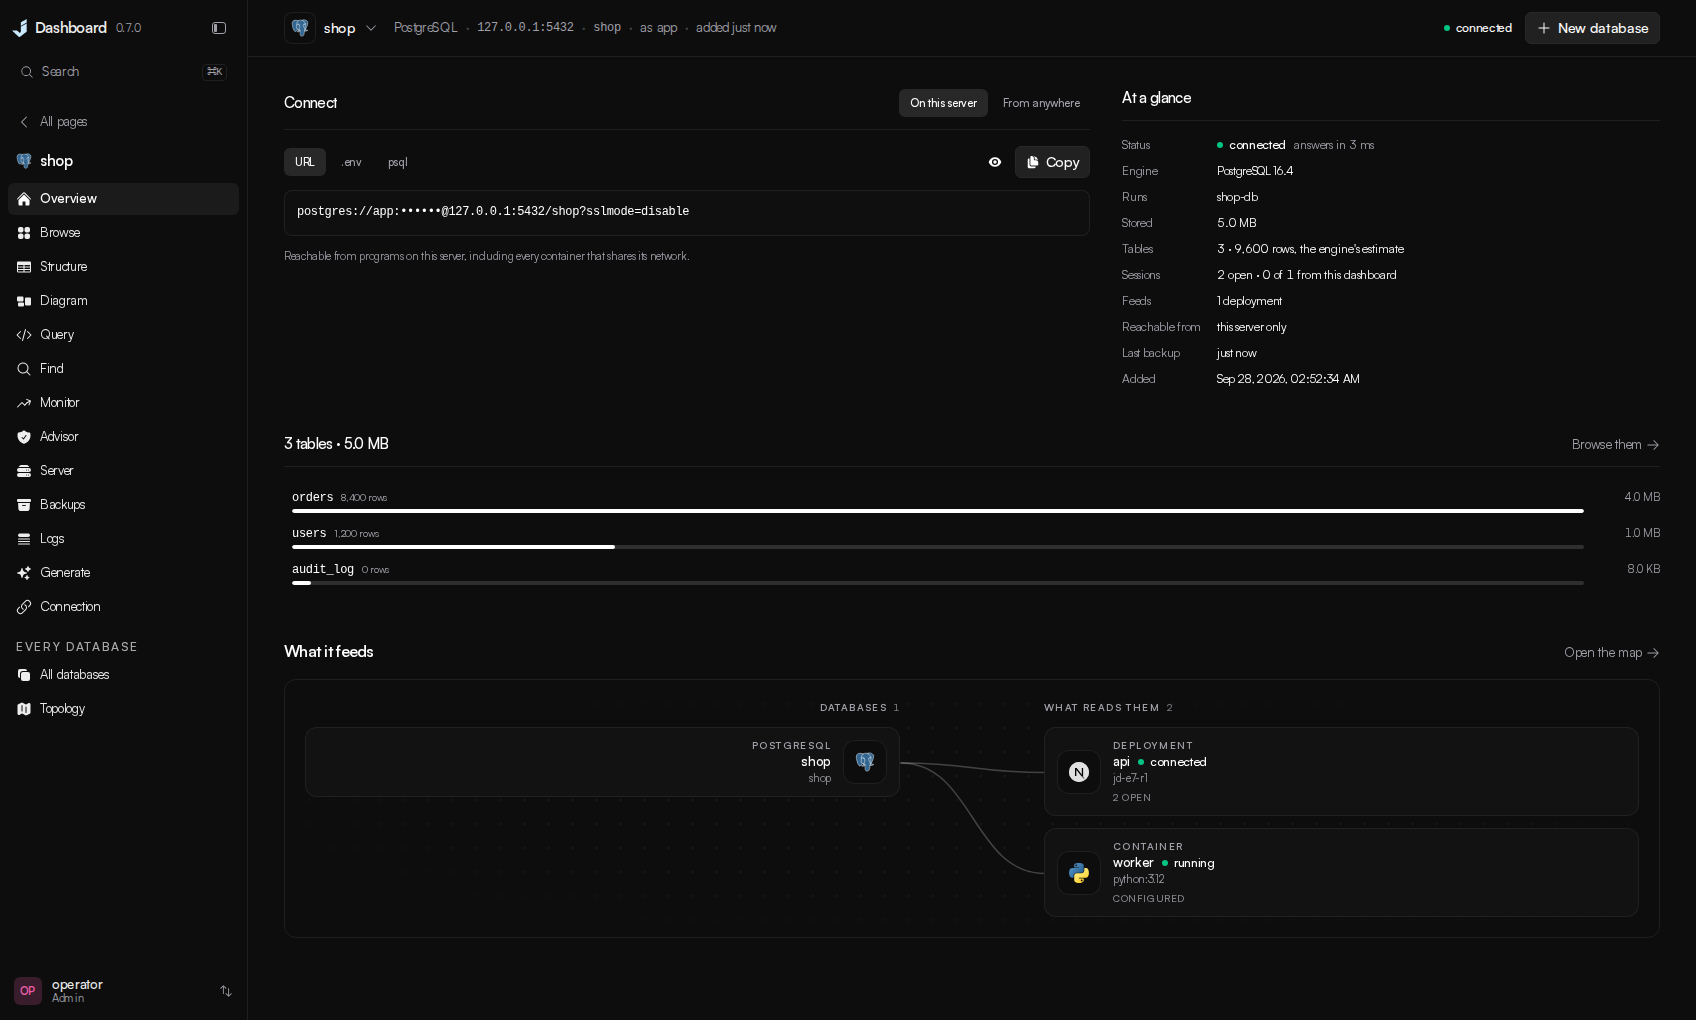
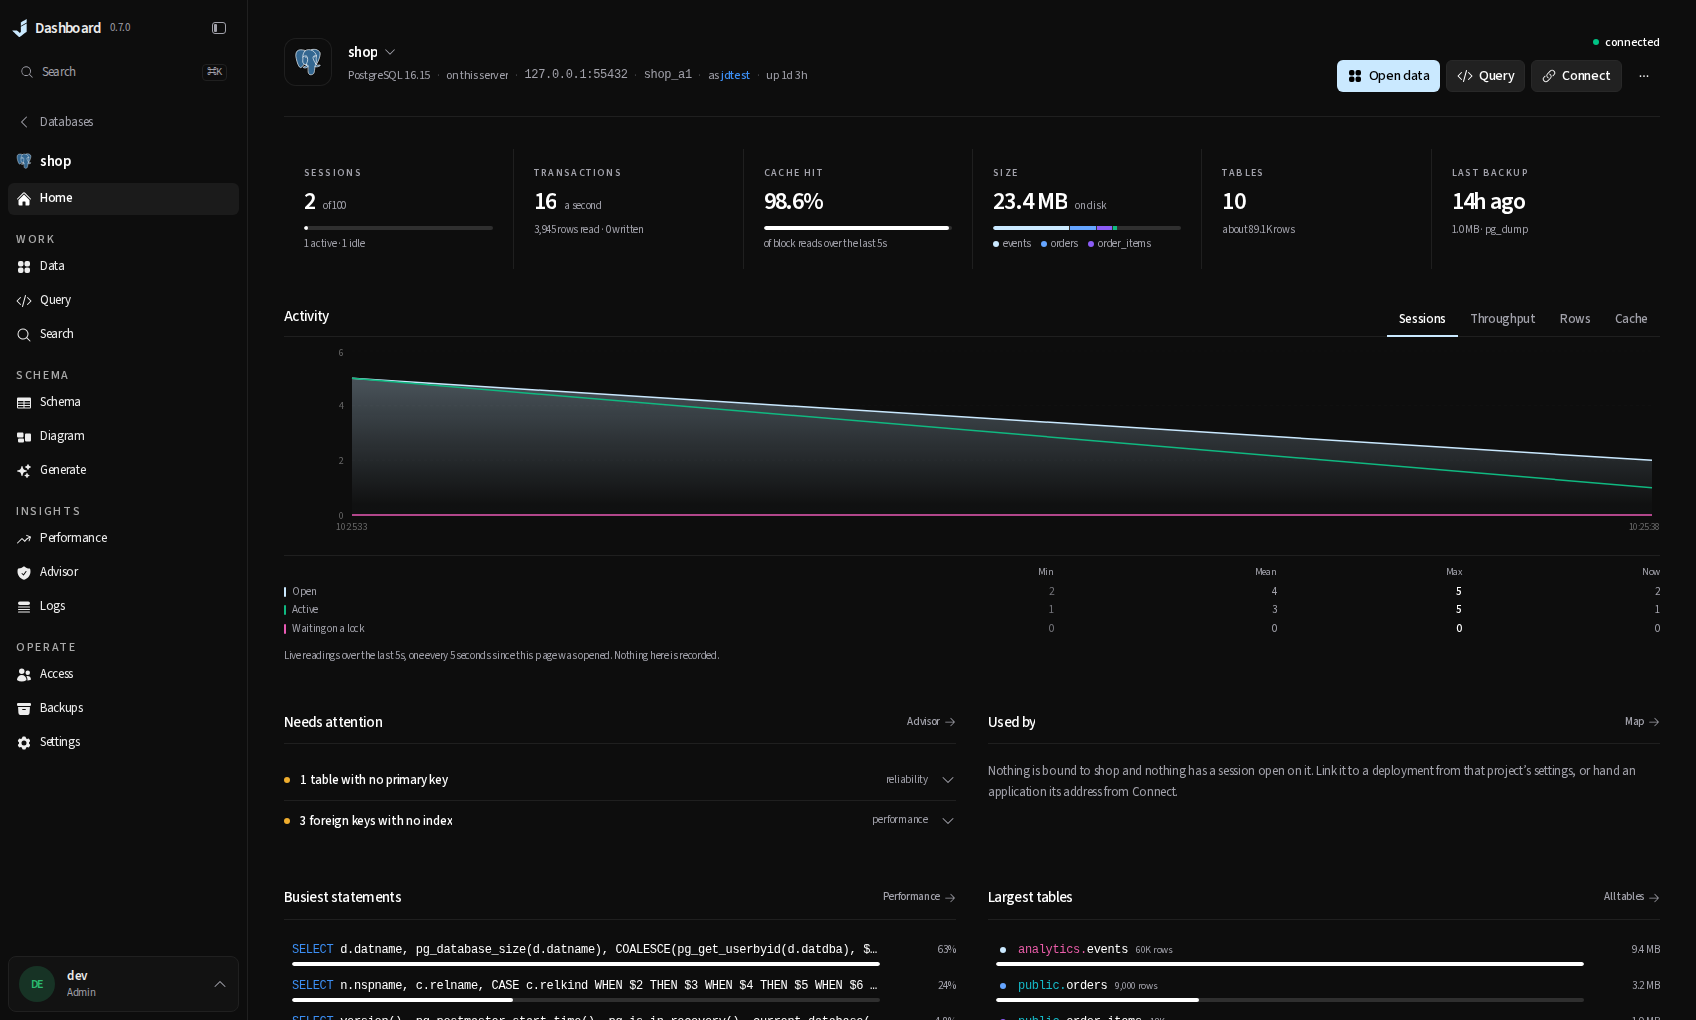
Show the database home in the README

diff --git a/README.md b/README.md
@@ -214,10 +214,8 @@ health checks and runtime limits remain editable before the first deployment.
 
 ### Databases
 
-![A PostgreSQL database with its masked connection string, table sizes and connected applications](docs/databases.png)
+![A PostgreSQL database's home: live sessions, transactions and cache readings, an activity chart, what needs attention, the busiest statements and the largest tables](docs/databases.png)
 
-<!-- LEAD: docs/databases.png above still shows the page before the rebuild; it is re-shot for this
-     release, and the alt text goes with the new picture. -->
 Every database on the server, not only the connected ones: containers running or stopped, servers
 installed on the machine and SQLite files on disk are found and listed, each saying what keeps it
 from being opened, and whatever needs attention carries its fix. PostgreSQL, MySQL and MariaDB,
